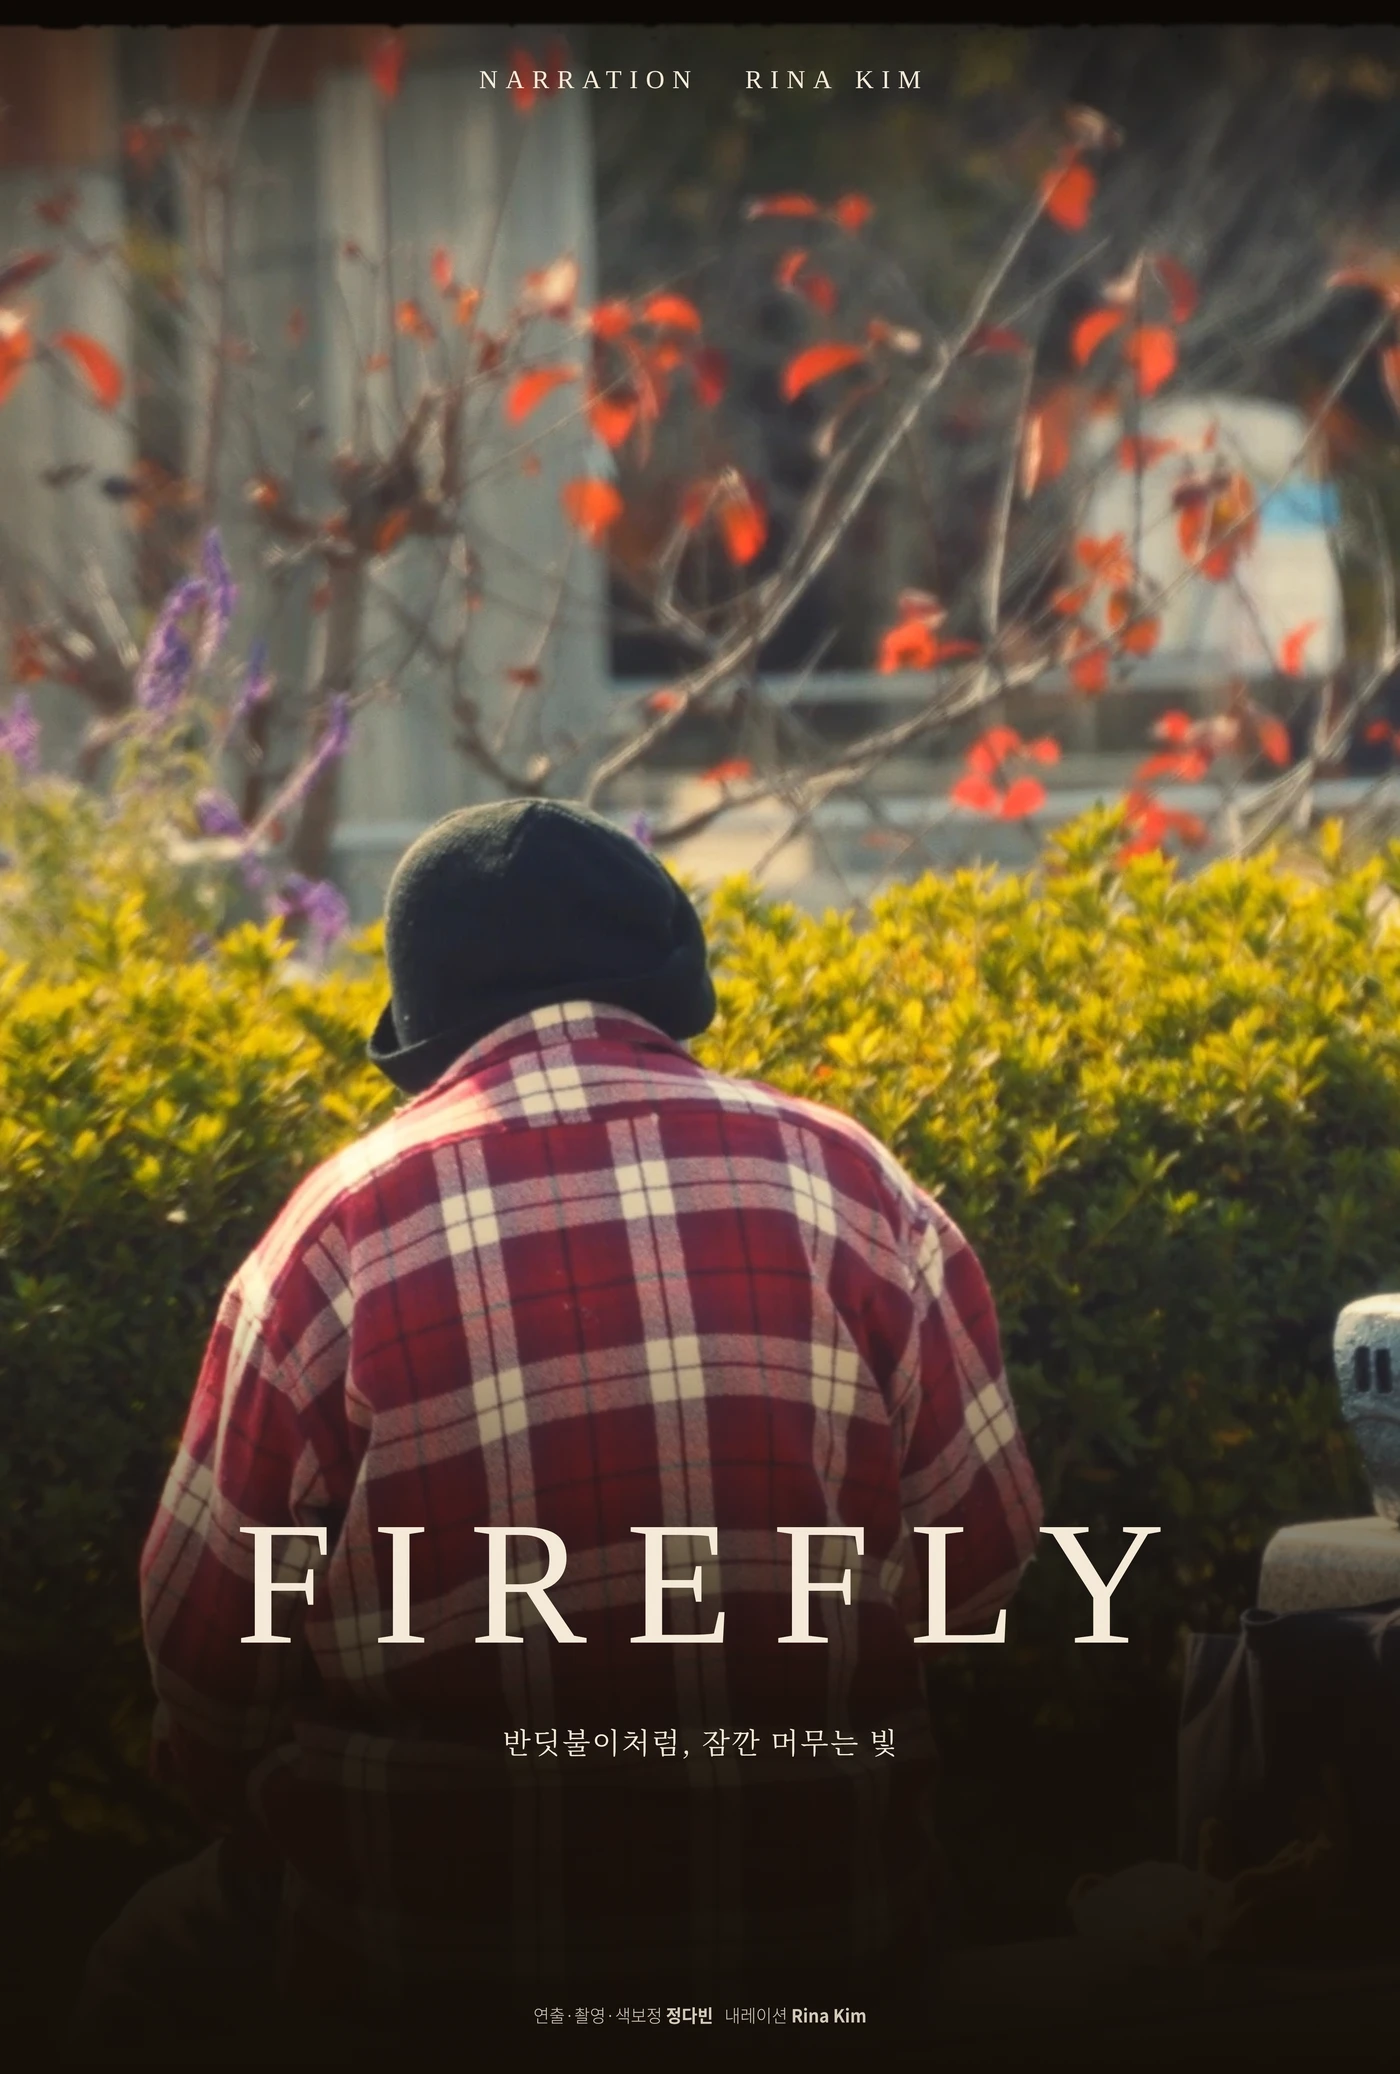
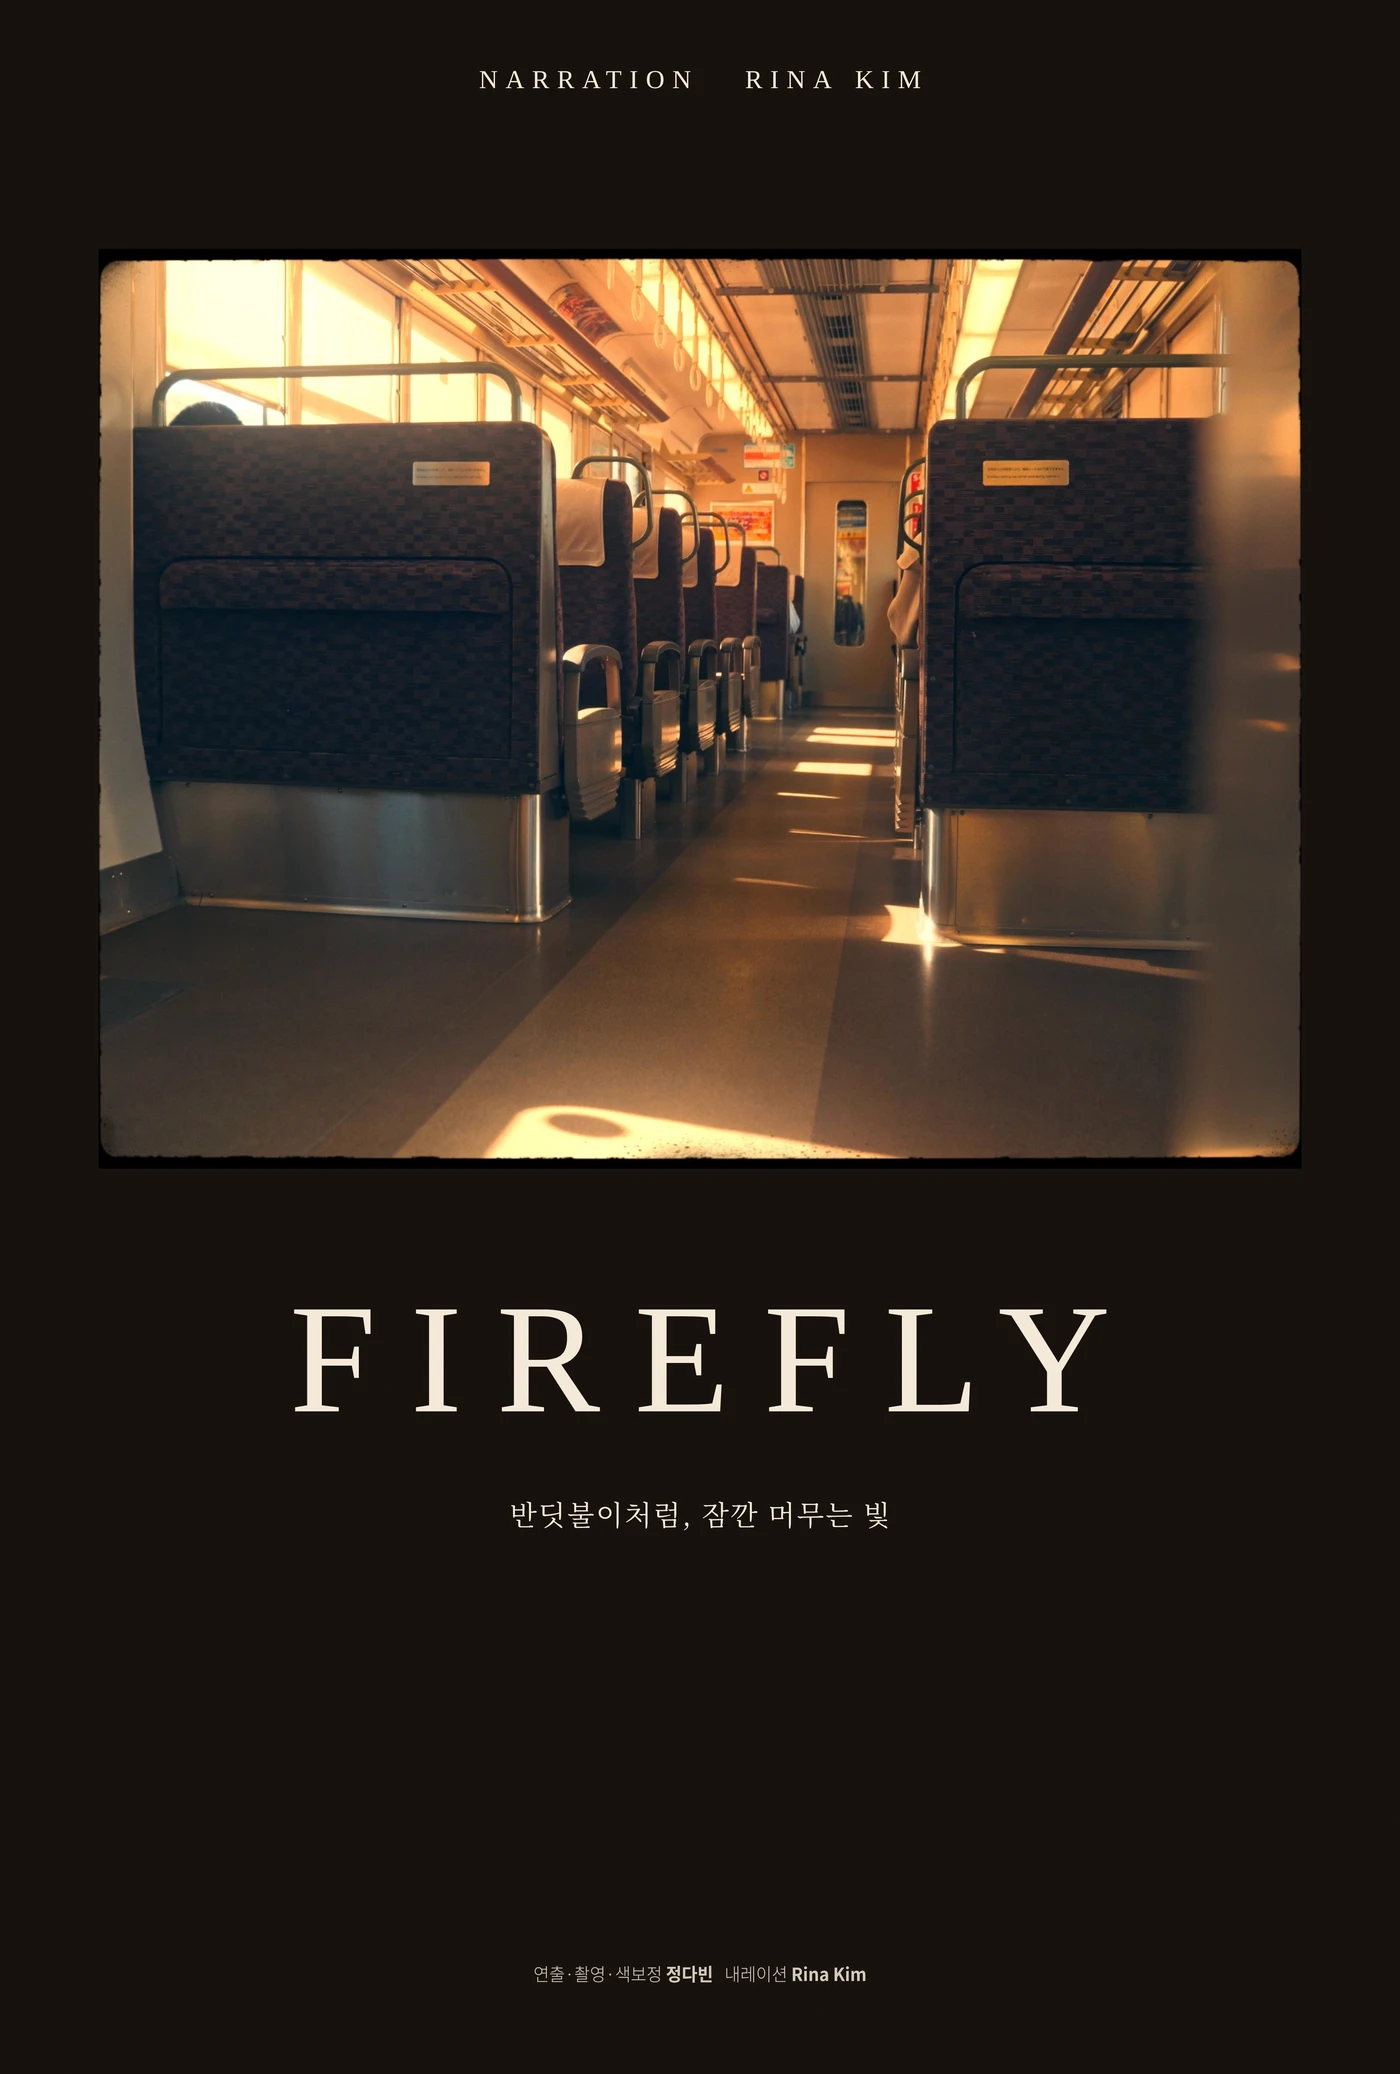
FIREFLY 포스터 교체
Claude-Session: https://claude.ai/code/session_01YYRb2KB3eF6Q3RKez6YmkW

diff --git a/index.html b/index.html
@@ -2480,7 +2480,7 @@ const roleHTML=L=>L.map(roleTag).join('<span class="rl-sep"> · </span>');
 const roleEn=f=>roleHTML(roleList(f[2]));
 const roleShort=r=>[/Direct/.test(r)&&"Dir",/DOP/.test(r)&&"DOP",/Color/.test(r)&&"Color"].filter(Boolean).join(" + ");
 /* 로컬 원본 이미지 */
-const W=(k,t,n)=>`img/w/${k}/${t}${n}.webp${t==="p"?"?v=7":""}`;
+const W=(k,t,n)=>`img/w/${k}/${t}${n}.webp${t==="p"?"?v=8":""}`;
 const has=(k,t)=>MEDIA[k]&&MEDIA[k][t]&&MEDIA[k][t].length;
 const cover=(k,fallback)=>(typeof HQS!=="undefined"&&HQS[k])?HQU(k,0):has(k,"s")?W(k,"s",0):fallback;
 const rnd=n=>Math.floor(Math.random()*n);
